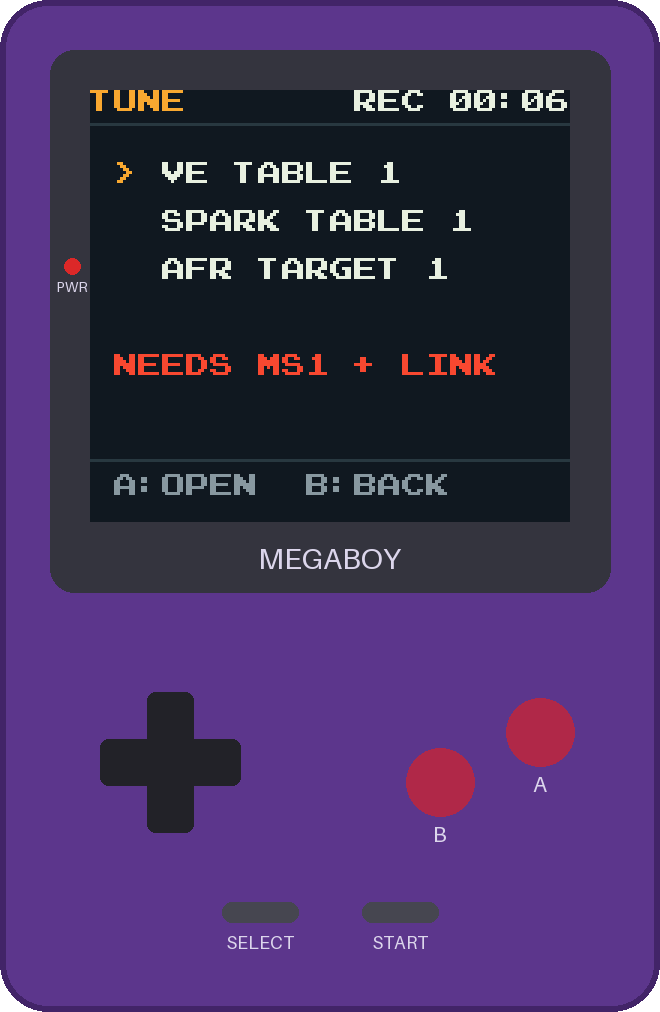
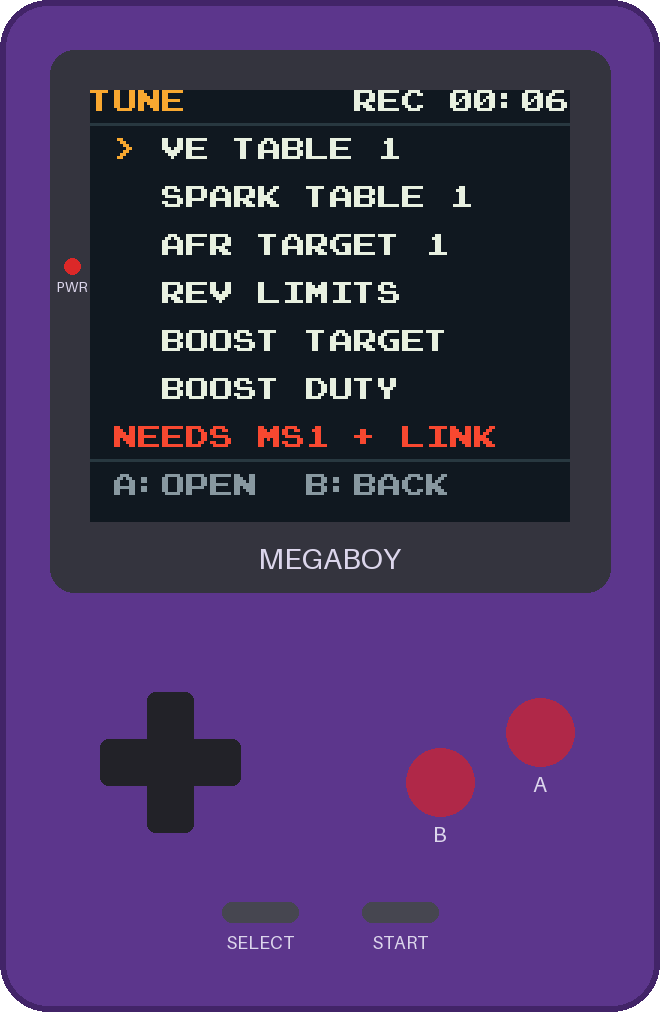
gbc: edit rev limits and boost tables

diff --git a/gbc/src/tedit.c b/gbc/src/tedit.c
@@ -21,7 +21,10 @@
 
 enum { M_NAV, M_EDIT, M_EXIT, M_LEAVE };
 
-static const char *const titles[TUNE_COUNT] = {"VE1", "SPARK1", "AFR1"};
+static const char *const titles[TUNE_COUNT] = {"VE1", "SPARK1", "AFR1", "LIMITS", "BOOST TGT", "BOOST DUTY"};
+static const char *const limit_names[] = {"SOFT LIMIT", "HARD LIMIT", "LAUNCH", "FLAT SHIFT"};
+#define LIST_Y0 3u
+#define LIST_VAL_X 14u
 
 static uint8_t emode;
 static uint8_t cur_r;
@@ -40,7 +43,18 @@ static uint8_t cols(void) {
     return td.t->cols;
 }
 
+static uint8_t is_list(void) {
+    return td.t->offs != 0;
+}
+
+static uint8_t is_tps(void) {
+    return td.id == TUNE_BCT || td.id == TUNE_BCD;
+}
+
 static uint8_t cell_at(uint8_t r, uint8_t c) {
+    if (is_list()) {
+        return r;
+    }
     return (uint8_t)((rows() - 1u - r) * cols() + c);
 }
 
@@ -50,6 +64,11 @@ static uint8_t rpm_bin(uint8_t c) {
 
 static uint8_t map_bin(uint8_t r) {
     return td.blob[tune_cells(td.t) + cols() + (rows() - 1u - r)];
+}
+
+static uint16_t y_bin(uint8_t r) {
+    uint8_t raw = map_bin(r);
+    return is_tps() ? (uint16_t)(((uint16_t)raw * 392u + 500u) / 1000u) : raw;
 }
 
 static void fmt_cell(char *s, uint8_t raw) {
@@ -63,6 +82,10 @@ static void fmt_cell(char *s, uint8_t raw) {
         } else {
             fmt_x10(s, CELL_W, v, 0);
         }
+    } else if (td.id == TUNE_BCT) {
+        fmt_int(s, CELL_W, raw, 0);
+    } else if (td.id == TUNE_BCD) {
+        fmt_x10(s, CELL_W, (int16_t)(((int32_t)raw * 392 + 50) / 100), 0);
     } else {
         fmt_x10(s, CELL_W, (int16_t)(100 + ((int32_t)raw * 392 + 500) / 1000), 0);
     }
@@ -73,7 +96,7 @@ static uint8_t nearest(uint16_t want, uint8_t n, uint8_t is_rpm) {
     uint8_t best = 0;
     uint16_t best_d = 0xffffu;
     for (i = 0; i < n; i++) {
-        uint16_t b = is_rpm ? (uint16_t)(rpm_bin(i) * 100u) : map_bin(i);
+        uint16_t b = is_rpm ? (uint16_t)(rpm_bin(i) * 100u) : y_bin(i);
         uint16_t d = b > want ? b - want : want - b;
         if (d < best_d) {
             best_d = d;
@@ -86,12 +109,14 @@ static uint8_t nearest(uint16_t want, uint8_t n, uint8_t is_rpm) {
 static uint8_t update_live(void) {
     uint8_t r;
     uint8_t c;
-    if (app.src != SRC_LINK || app_ecu_missing()) {
+    int16_t y;
+    if (is_list() || app.src != SRC_LINK || app_ecu_missing()) {
         r = NONE;
         c = NONE;
     } else {
+        y = is_tps() ? app.rt.tps_x10 : app.rt.map_x10;
         c = nearest(app.rt.rpm, cols(), 1);
-        r = nearest((uint16_t)(app.rt.map_x10 < 0 ? 0 : app.rt.map_x10 / 10), rows(), 0);
+        r = nearest((uint16_t)(y < 0 ? 0 : y / 10), rows(), 0);
     }
     if (r == live_r && c == live_c) {
         return 0;
@@ -126,7 +151,7 @@ static void draw_grid(void) {
         }
     }
     for (r = 0; r < rows(); r++) {
-        fmt_int(s, 3, map_bin(r), 0);
+        fmt_int(s, 3, (int16_t)y_bin(r), 0);
         ui_textn(0, (uint8_t)(GRID_Y + r), s, 3, PAL_DIM);
         for (k = 0; k < VIS_COLS; k++) {
             c = (uint8_t)(view_c + k);
@@ -137,6 +162,21 @@ static void draw_grid(void) {
                 ui_text((uint8_t)(GRID_X + k * CELL_W), (uint8_t)(GRID_Y + r), "    ", PAL_TEXT);
             }
         }
+    }
+}
+
+static void draw_list(void) {
+    char s[5];
+    uint8_t r;
+    uint8_t y;
+    uint8_t v;
+    for (r = 0; r < rows(); r++) {
+        y = (uint8_t)(LIST_Y0 + r * 2u);
+        v = (emode == M_EDIT && r == cur_r) ? edit_val : td_value(r);
+        ui_tile(0, y, r == cur_r ? tile_small(emode == M_EDIT ? '*' : '>') : T_SPACE, PAL_AMBER);
+        ui_text(1, y, limit_names[r], PAL_TEXT);
+        fmt_int(s, 5, (int16_t)(v * 100), 0);
+        ui_textn(LIST_VAL_X, y, s, 5, cell_pal(r, 0));
     }
 }
 
@@ -179,11 +219,15 @@ static void draw_status(void) {
     } else if (td_dirty()) {
         line(STATUS_Y, "IN RAM, NOT BURNED", PAL_AMBER);
     } else {
-        line(STATUS_Y, "RPM X100   KPA", PAL_DIM);
-        fmt_int(s, 2, rpm_bin(cur_c), 0);
-        ui_textn(10, STATUS_Y, s, 2, PAL_TEXT);
-        fmt_int(s, 3, map_bin(cur_r), 0);
-        ui_textn(16, STATUS_Y, s, 3, PAL_TEXT);
+        if (is_list()) {
+            line(STATUS_Y, "VALUES IN RPM", PAL_DIM);
+        } else {
+            line(STATUS_Y, is_tps() ? "RPM X100   TPS" : "RPM X100   KPA", PAL_DIM);
+            fmt_int(s, 2, rpm_bin(cur_c), 0);
+            ui_textn(10, STATUS_Y, s, 2, PAL_TEXT);
+            fmt_int(s, 3, (int16_t)y_bin(cur_r), 0);
+            ui_textn(16, STATUS_Y, s, 3, PAL_TEXT);
+        }
     }
     if (td.state != TD_READY) {
         line(KEYS_Y, td.state == TD_ERROR ? "A:RETRY  B:BACK" : "B:BACK", PAL_DIM);
@@ -200,7 +244,11 @@ static void draw_status(void) {
 
 static void redraw(void) {
     if (td.state == TD_READY) {
-        draw_grid();
+        if (is_list()) {
+            draw_list();
+        } else {
+            draw_grid();
+        }
     }
     draw_status();
 }

diff --git a/gbc/src/tunemenu.c b/gbc/src/tunemenu.c
@@ -10,8 +10,9 @@
 #include "tiles.h"
 #include "ui.h"
 
-static const char *const names[TUNE_COUNT] = {"VE TABLE 1", "SPARK TABLE 1", "AFR TARGET 1"};
-#define ITEM_Y0 3u
+static const char *const names[TUNE_COUNT] = {"VE TABLE 1", "SPARK TABLE 1", "AFR TARGET 1", "REV LIMITS", "BOOST TARGET", "BOOST DUTY"};
+#define ITEM_Y0 2u
+#define NOTE_Y 14u
 
 static uint8_t sel;
 
@@ -28,9 +29,9 @@ static void draw_cursor(void) {
 
 static void draw_note(void) {
     if (can_tune()) {
-        ui_text(1, 11, "MS1 RAM, LIVE   ", PAL_GREEN);
+        ui_text(1, NOTE_Y, "MS1 RAM, LIVE   ", PAL_GREEN);
     } else {
-        ui_text(1, 11, "NEEDS MS1 + LINK", PAL_RED);
+        ui_text(1, NOTE_Y, "NEEDS MS1 + LINK", PAL_RED);
     }
 }
 
